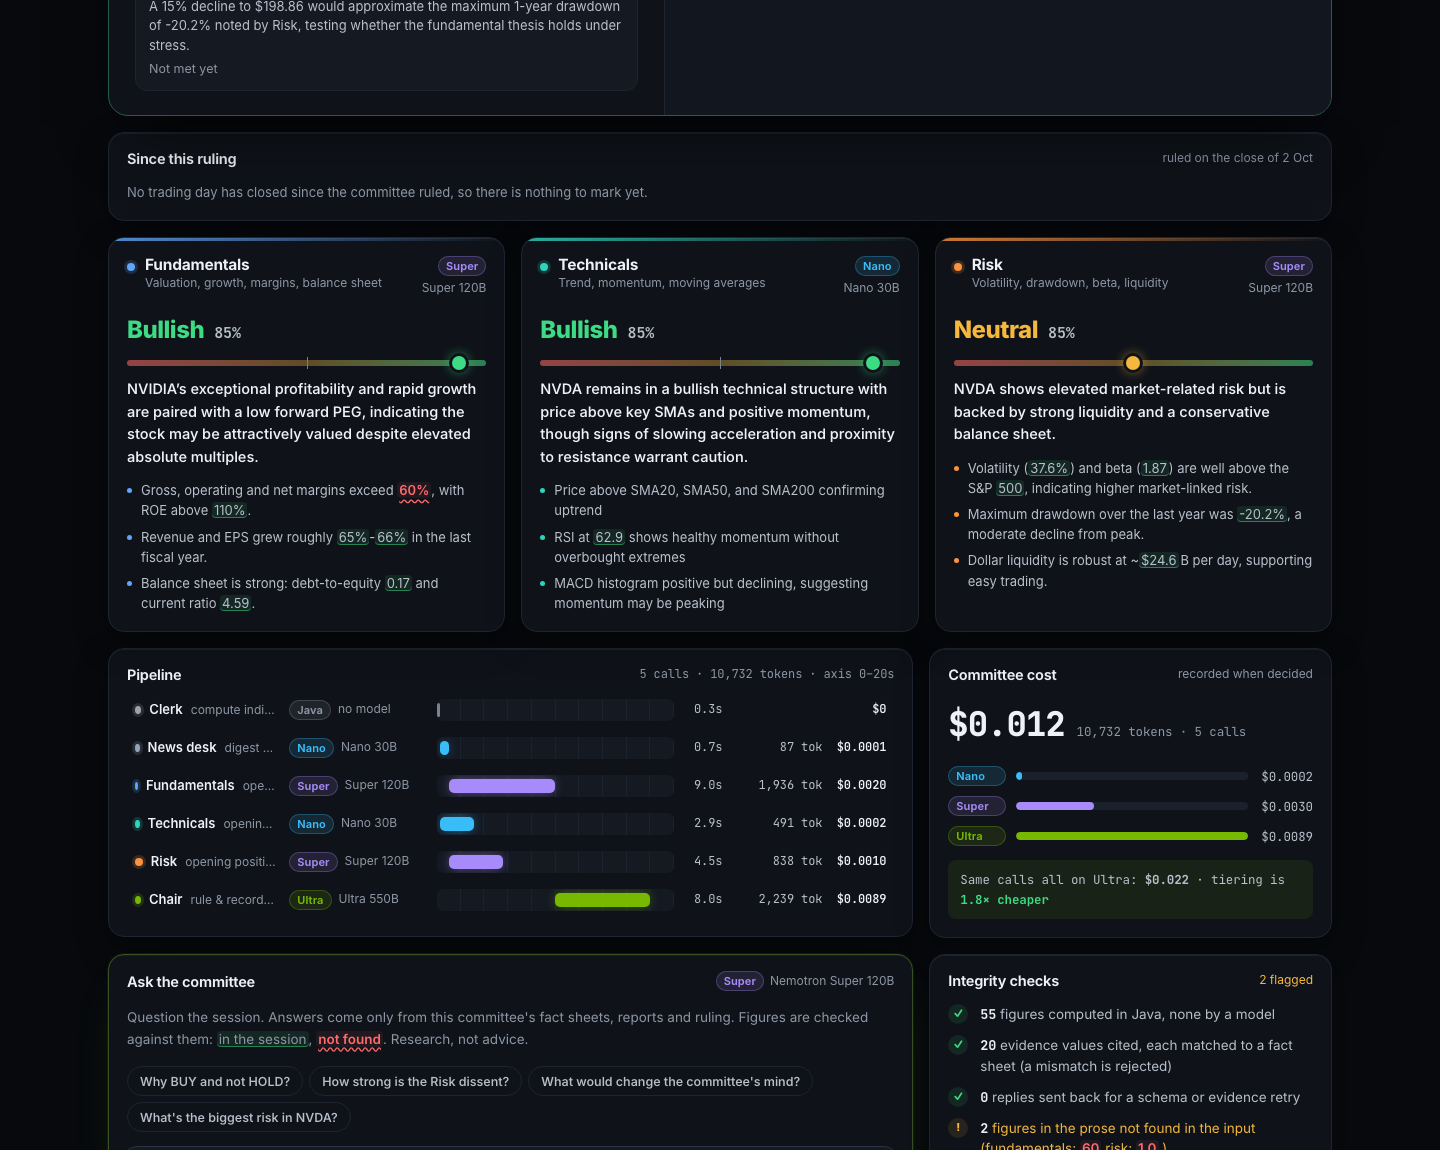
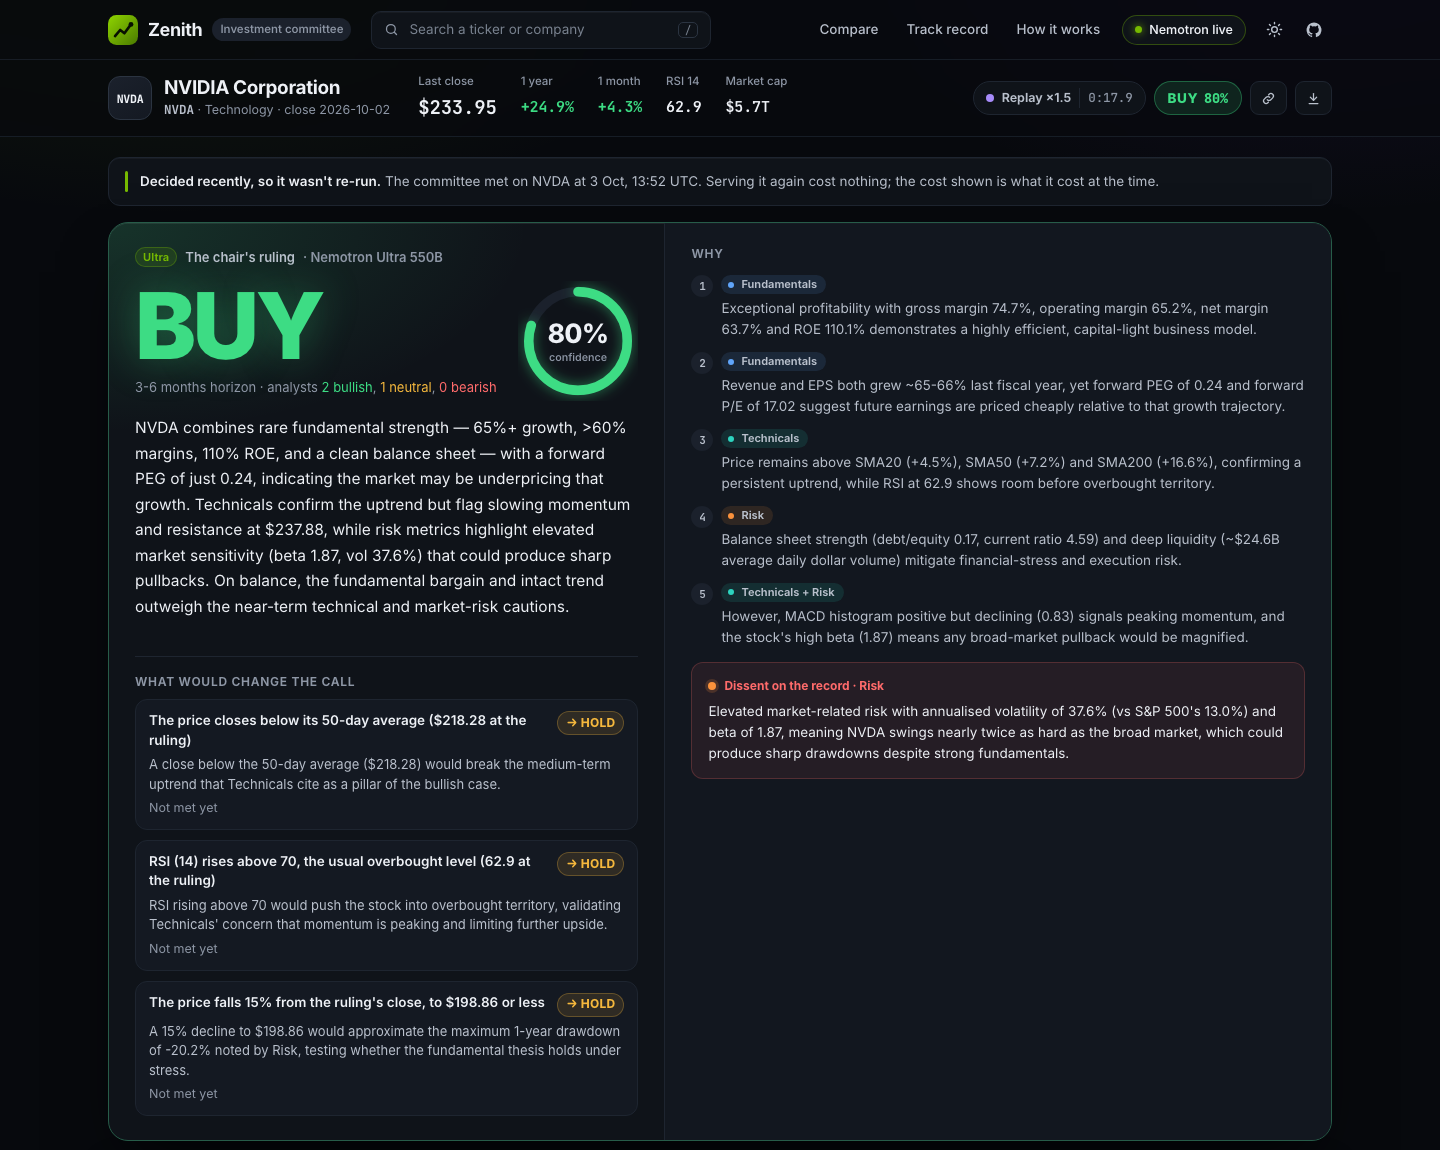
Fix the README session screenshot (it showed the middle of the page, not the verdict); make the budget-runs-out test deterministic
The test relied on the news call's own cost using up the budget before any analyst checked it. Since
technicals starts alongside the news desk, technicals could pass its check first on a slower machine
(as on the CI runner), so 'all analysts failed' didn't happen. The budget is now spent at the 'news'
stage event, after the up-front check and before any agent starts. Passed 10 of 10 runs locally.

diff --git a/backend/src/test/java/com/zenith/committee/CommitteeServiceTest.java b/backend/src/test/java/com/zenith/committee/CommitteeServiceTest.java
@@ -172,10 +172,16 @@ class CommitteeServiceTest {
 
     @Test
     void aBudgetThatRunsOutMidRunSurfacesAsABudgetError(@TempDir Path dir) {
-        // $0.0001 passes the up-front check; the news call (~$0.000108 on Nano) then uses it up, so every analyst
-        // is refused. The error must say "budget" (503, quota refunded), not look like a model failure (502).
-        CommitteeService broke = serviceWith(TestProps.create(dir, false, 12, 0.0001));
-        assertThatThrownBy(() -> broke.run("TEST", false, e -> {}))
+        // The run passes its up-front budget check; then, as the "news" stage begins (before the news desk and
+        // technicals start, which run side by side), other spending uses the budget up, as concurrent visitors could.
+        // Every agent is then refused. Spending it at that event, not via the news call's own cost, keeps the test
+        // deterministic: technicals' check no longer races the news desk's. The error must say "budget" (503, quota
+        // refunded), not look like a model failure (502).
+        var props = TestProps.create(dir, false, 12, 0.01);
+        CommitteeService broke = serviceWith(props);
+        assertThatThrownBy(() -> broke.run("TEST", false, e -> {
+            if (e instanceof CommitteeEvent.Stage s && s.stage().equals("news")) new com.zenith.llm.SpendGuard(props).record(1.0);
+        }))
                 .hasMessageContaining("All analysts failed")
                 .hasCauseInstanceOf(com.zenith.llm.SpendGuard.BudgetExceededException.class)
                 .satisfies(e -> assertThat(CommitteeGate.costNothing(e)).isTrue());
